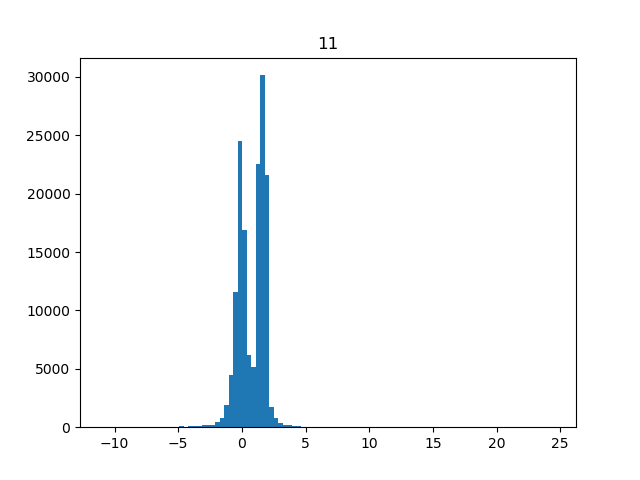
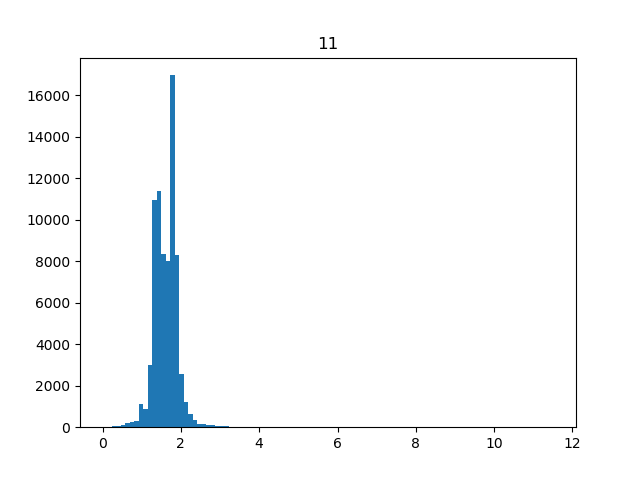
fixed dists

diff --git a/src/explore_files16hz.py b/src/explore_files16hz.py
@@ -2,13 +2,13 @@ import pandas as pd
 import glob
 import matplotlib.pyplot as plt
 
-NORMED = True
+NORMED = False
 
 # Get data paths (normed or unnormed)
 if NORMED:
     path = '../files16hz/*norm_labelled.csv'
 else:
-    path = '../files16hz/*labelled.csv'
+    path = '../files16hz/*txt_labelled.csv'
 image_path = '../images/dists/'
 paths = glob.glob(path)
 
